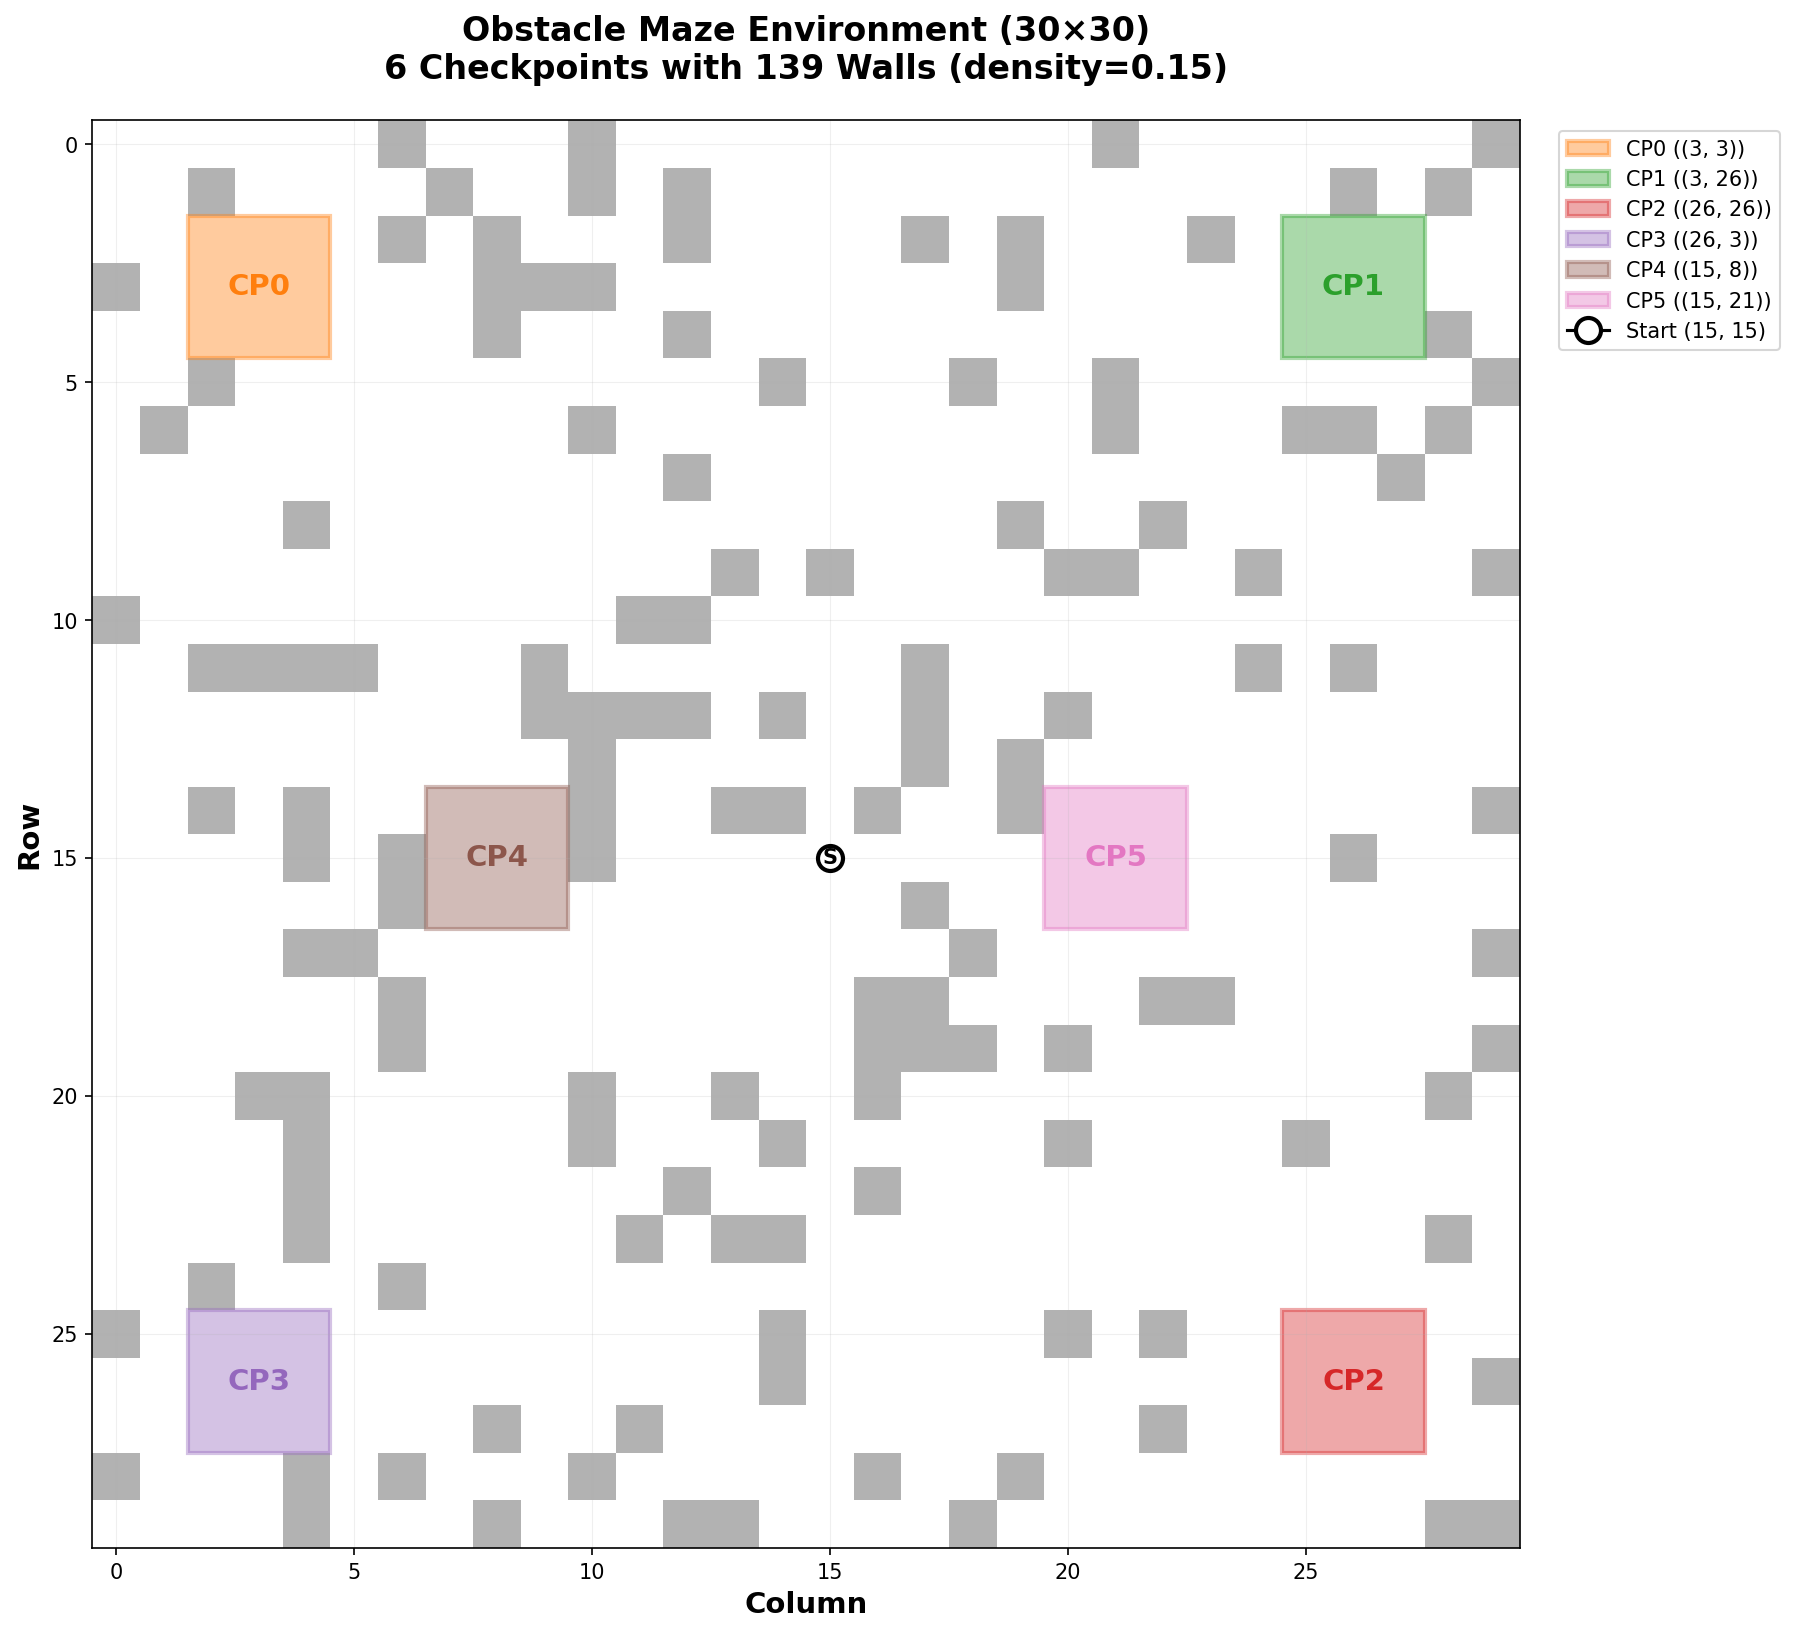
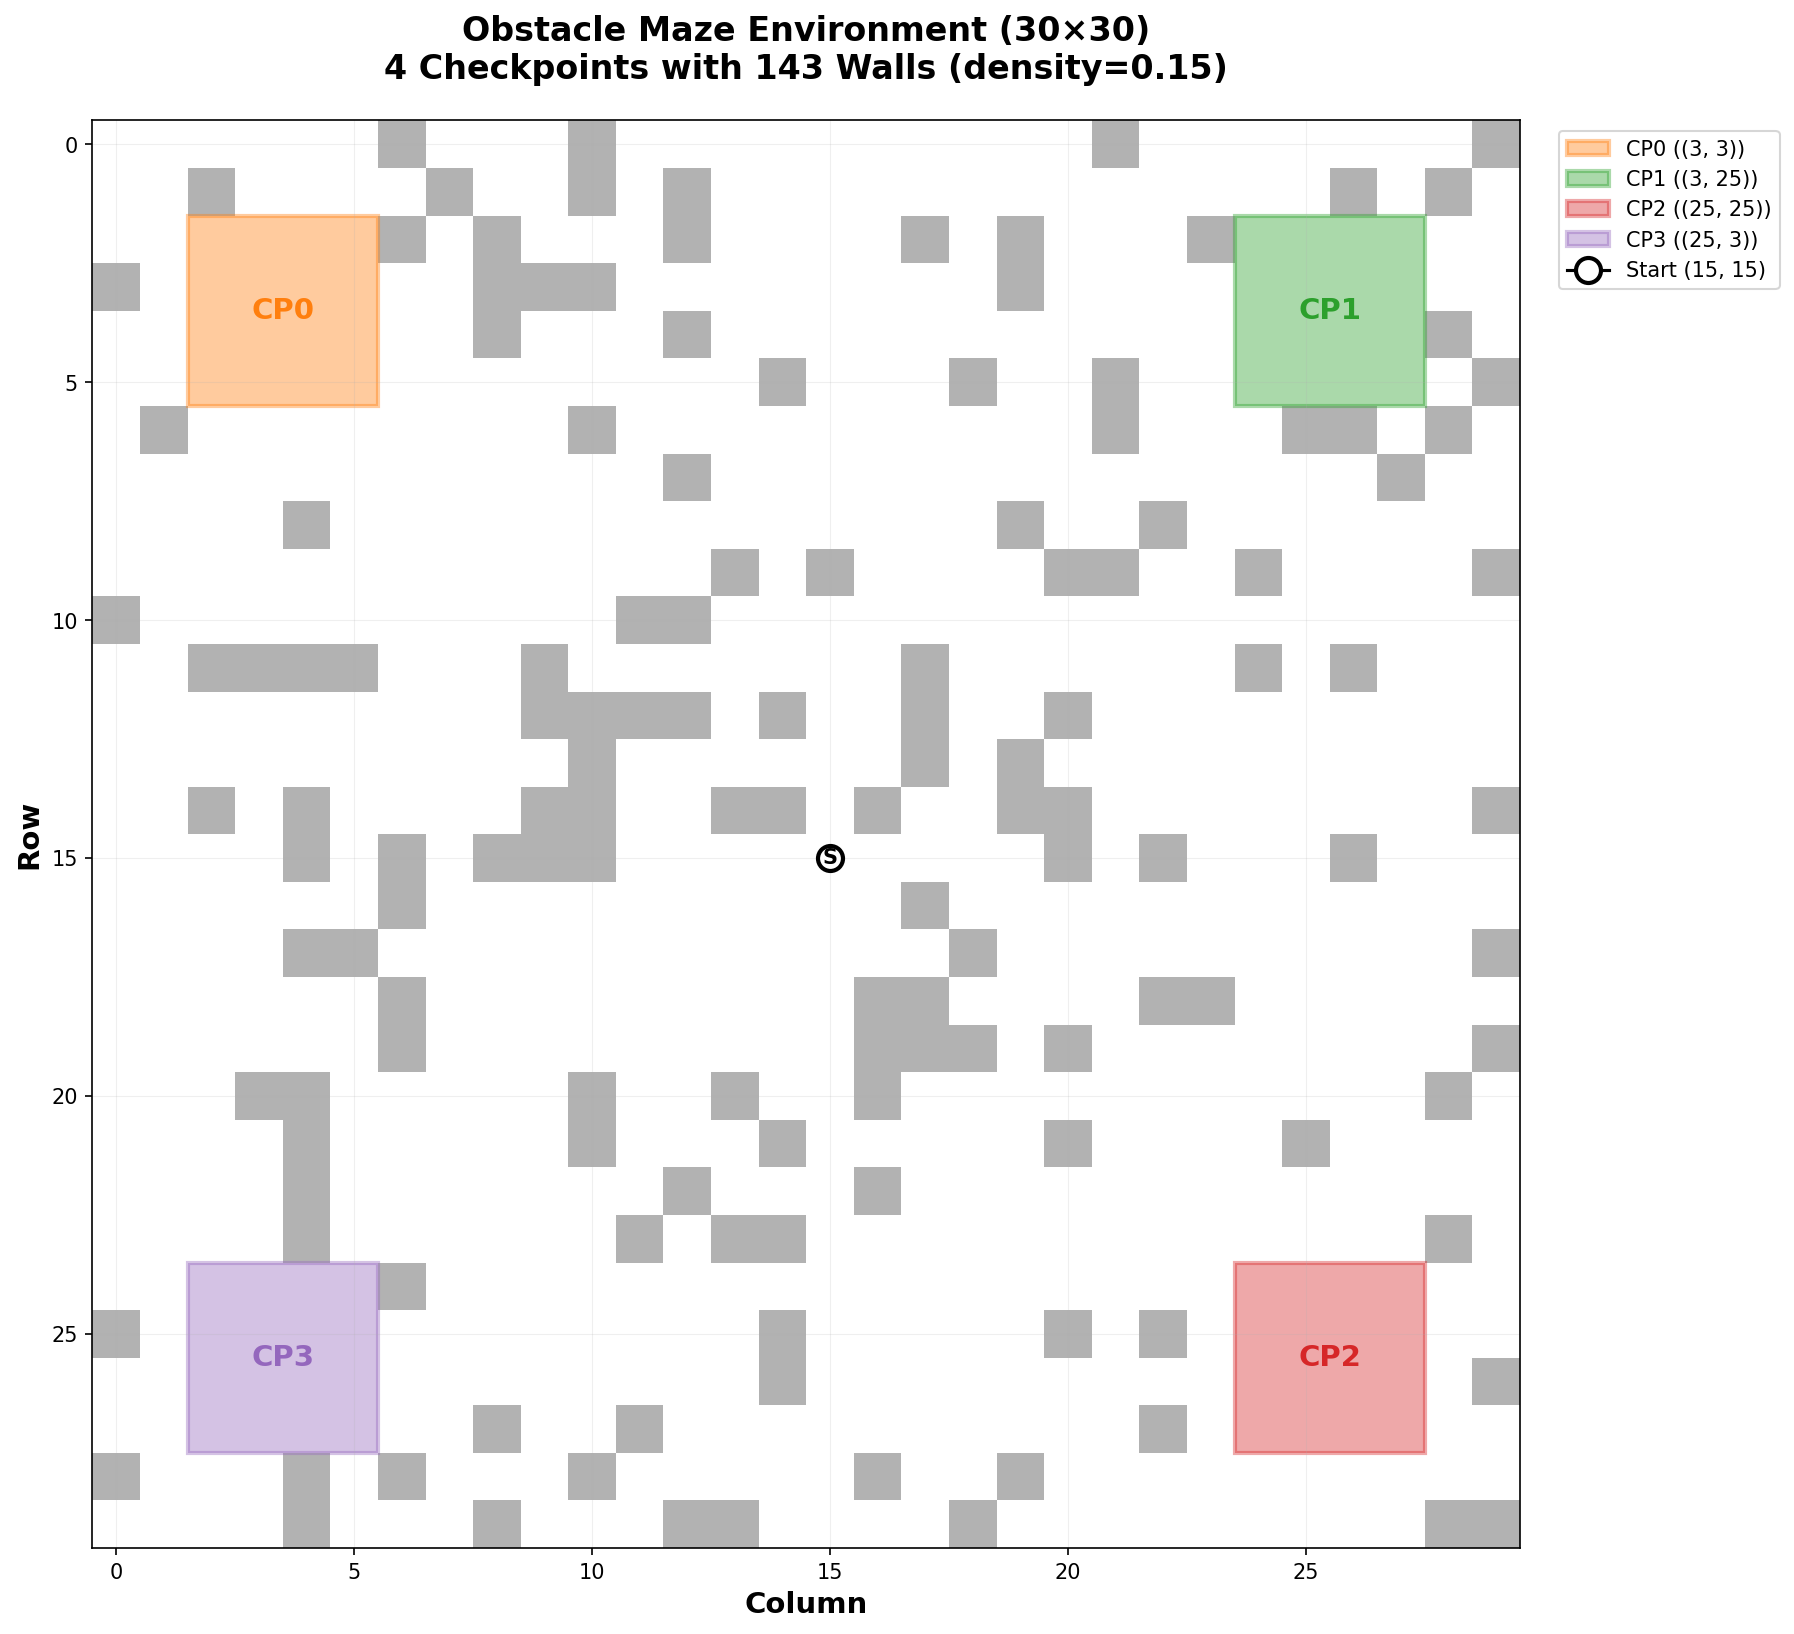
Reduce maze to 4 checkpoints (24 workflows) for better trainability and comparison with other envs; increase checkpoint size to 4x4

diff --git a/workflow_search_gpucb_maze.py b/workflow_search_gpucb_maze.py
@@ -1,7 +1,7 @@
 """
-Workflow Search with GP-UCB on ObstacleMazeEnv (6 checkpoints with obstacles).
+Workflow Search with GP-UCB on ObstacleMazeEnv (4 checkpoints with obstacles).
 
-Extension to obstacle maze with 6 checkpoints (720 possible orderings):
+Extension to obstacle maze with 4 checkpoints (24 possible orderings):
 - Agent must navigate around walls to enter checkpoints in specified order
 - Uses adherence-progress rewards + potential shaping
 - All GP-UCB, continuation, and early-stop features
@@ -47,11 +47,11 @@ class AdherenceShapedMazeEnv(gym.Wrapper):
         self.visited_sequence: List[int] = []
         self._phi_s: float = 0.0
         self._prev_adherence: float = 0.0
-        # Observation: agent(2) + checkpoint_centers(12) + visited(6) + next_cp_onehot(6) + workflow_vec(6) = 32
+        # Observation: agent(2) + checkpoint_centers(8) + visited(4) + next_cp_onehot(4) + workflow_vec(4) = 22
         import numpy as _np
         self.observation_space = gym.spaces.Box(
-            low=_np.zeros(32, dtype=_np.float32),
-            high=_np.ones(32, dtype=_np.float32),
+            low=_np.zeros(22, dtype=_np.float32),
+            high=_np.ones(22, dtype=_np.float32),
             dtype=_np.float32,
         )
 
@@ -174,13 +174,13 @@ class AdherenceShapedMazeEnv(gym.Wrapper):
         centers_norm = _np.asarray(centers, dtype=_np.float32)
 
         # Visited flags
-        visited_flags = _np.zeros(6, dtype=_np.float32)
+        visited_flags = _np.zeros(4, dtype=_np.float32)
         for t in self.visited_sequence:
-            if 0 <= int(t) < 6:
+            if 0 <= int(t) < 4:
                 visited_flags[int(t)] = 1.0
 
         # Next-checkpoint one-hot
-        one_hot = _np.zeros(6, dtype=_np.float32)
+        one_hot = _np.zeros(4, dtype=_np.float32)
         next_idx = 0
         for i, t in enumerate(self.workflow):
             if t in self.visited_sequence:
@@ -191,13 +191,13 @@ class AdherenceShapedMazeEnv(gym.Wrapper):
             next_cp = self.workflow[-1]
         else:
             next_cp = self.workflow[next_idx]
-        if 0 <= int(next_cp) < 6:
+        if 0 <= int(next_cp) < 4:
             one_hot[int(next_cp)] = 1.0
 
         # Workflow encoding
-        wf_vec = _np.zeros(6, dtype=_np.float32)
+        wf_vec = _np.zeros(4, dtype=_np.float32)
         for i, t in enumerate(self.workflow):
-            wf_vec[t] = (i + 1) / 6.0
+            wf_vec[t] = (i + 1) / 4.0
 
         return _np.concatenate([agent_norm, centers_norm, visited_flags, one_hot, wf_vec], axis=0)
 
@@ -285,7 +285,7 @@ def main():
             'pid': int(pid),
             'run_dir': run_dir,
             'MAX_TOTAL_UPDATES': int(MAX_TOTAL_UPDATES),
-            'num_candidates': 720,
+            'num_candidates': 24,
         }, f, indent=2)
 
     device = torch.device('cuda' if torch.cuda.is_available() else 'cpu')
@@ -307,7 +307,7 @@ def main():
             rect = mpatches.Rectangle((c - 0.5, r - 0.5), 1, 1, linewidth=0, facecolor='gray', alpha=0.6)
             ax.add_patch(rect)
         # Draw checkpoints
-        cp_colors = ['#ff7f0e', '#2ca02c', '#d62728', '#9467bd', '#8c564b', '#e377c2']
+        cp_colors = ['#ff7f0e', '#2ca02c', '#d62728', '#9467bd']
         for idx, (r_min, r_max, c_min, c_max) in enumerate(ref_env.checkpoints):
             width = c_max - c_min + 1
             height = r_max - r_min + 1
@@ -334,13 +334,13 @@ def main():
     except Exception as e:
         print(f"Could not save maze visualization: {e}")
 
-    # Candidate workflows (6! = 720)
-    candidates: List[List[int]] = [list(p) for p in itertools.permutations([0, 1, 2, 3, 4, 5])]
+    # Candidate workflows (4! = 24)
+    candidates: List[List[int]] = [list(p) for p in itertools.permutations([0, 1, 2, 3])]
     candidate_embeddings = [
         build_workflow_embedding(
             w,
             kernel_type=args.kernel_type,
-            num_targets=6,
+            num_targets=4,
             rank_scale=args.rank_scale,
             pairwise_scale=args.pairwise_scale,
         ) for w in candidates
@@ -524,8 +524,8 @@ def main():
                     if vseq is not None:
                         self.env_vseq[i] = list(vseq)
                     if bool(dones[i]):
-                        # Canonical: positional match vs [0,1,2,3,4,5]
-                        ref = [0, 1, 2, 3, 4, 5]
+                        # Canonical: positional match vs [0,1,2,3]
+                        ref = [0, 1, 2, 3]
                         _, weight, _ = positional_match_metrics(self.env_vseq[i], ref)
                         canonical = float(weight) + float(self.step_penalty) * float(self.env_steps[i])
                         adh = float(info.get('adherence', 0.0))
@@ -675,12 +675,12 @@ def main():
     if len(observed_scores) > 0:
         best_idx = int(np.argmax(observed_scores))
         print("\n=== Obstacle Maze Workflow Search Completed ===")
-        print(f"Observed {len(observed_indices)} unique workflows (out of 720 total)")
+        print(f"Observed {len(observed_indices)} unique workflows (out of 24 total)")
         print(f"Best workflow: {candidates[observed_indices[best_idx]]} with score {observed_scores[best_idx]:.2f}")
         with open(os.path.join(run_dir, 'summary.json'), 'w') as f:
             json.dump({
                 'observed_count': int(len(observed_indices)),
-                'total_candidates': 720,
+                'total_candidates': 24,
                 'best_workflow': candidates[observed_indices[best_idx]],
                 'best_score': float(observed_scores[best_idx])
             }, f, indent=2)

diff --git a/core/obstacle_maze_env.py b/core/obstacle_maze_env.py
@@ -1,13 +1,11 @@
 """
-Obstacle Maze Environment - 6 checkpoint regions on 30x30 grid with random obstacles.
+Obstacle Maze Environment - 4 checkpoint regions on 30x30 grid with random obstacles.
 
-Checkpoints (each 3×3):
-- CP0: top-left (rows 2-4, cols 2-4)
-- CP1: top-right (rows 2-4, cols 25-27)
-- CP2: bottom-right (rows 25-27, cols 25-27)
-- CP3: bottom-left (rows 25-27, cols 2-4)
-- CP4: middle-left (rows 14-16, cols 7-9)
-- CP5: middle-right (rows 14-16, cols 20-22)
+Checkpoints (each 4×4):
+- CP0: top-left (rows 2-5, cols 2-5)
+- CP1: top-right (rows 2-5, cols 24-27)
+- CP2: bottom-right (rows 24-27, cols 24-27)
+- CP3: bottom-left (rows 24-27, cols 2-5)
 
 Agent starts at center (15, 15). Task: enter checkpoints in specified workflow order.
 Random walls are placed with controllable density; connectivity is verified.
@@ -22,9 +20,9 @@ from collections import deque
 
 class ObstacleMazeEnv(gym.Env):
     """
-    Environment with 6 checkpoint regions and random obstacles.
+    Environment with 4 checkpoint regions and random obstacles.
     Grid: 30×30. Start at center (15,15).
-    Default order: CP0 → CP1 → CP2 → CP3 → CP4 → CP5
+    Default order: CP0 → CP1 → CP2 → CP3
     """
 
     metadata = {"render.modes": ["human"]}
@@ -36,33 +34,29 @@ class ObstacleMazeEnv(gym.Env):
             np.random.seed(seed)
 
         self.grid_size = 30
-        self.num_checkpoints = 6
+        self.num_checkpoints = 4
         self.wall_density = float(wall_density)
 
         # Action and observation spaces
         self.action_space = spaces.Discrete(4)  # 0:up, 1:down, 2:left, 3:right
         self.observation_space = spaces.Box(low=0, high=self.grid_size - 1, shape=(2,), dtype=np.int32)
 
-        # Define 6 checkpoint regions (3×3 each): (r_min, r_max, c_min, c_max)
+        # Define 4 checkpoint regions (4×4 each): (r_min, r_max, c_min, c_max)
         self.checkpoints: List[Tuple[int, int, int, int]] = [
-            (2, 4, 2, 4),       # CP0: top-left
-            (2, 4, 25, 27),     # CP1: top-right
-            (25, 27, 25, 27),   # CP2: bottom-right
-            (25, 27, 2, 4),     # CP3: bottom-left
-            (14, 16, 7, 9),     # CP4: middle-left
-            (14, 16, 20, 22),   # CP5: middle-right
+            (2, 5, 2, 5),       # CP0: top-left
+            (2, 5, 24, 27),     # CP1: top-right
+            (24, 27, 24, 27),   # CP2: bottom-right
+            (24, 27, 2, 5),     # CP3: bottom-left
         ]
         # Checkpoint centers for potential computation
         self.checkpoint_centers: List[Tuple[int, int]] = [
             (3, 3),   # CP0
-            (3, 26),  # CP1
-            (26, 26), # CP2
-            (26, 3),  # CP3
-            (15, 8),  # CP4
-            (15, 21), # CP5
+            (3, 25),  # CP1
+            (25, 25), # CP2
+            (25, 3),  # CP3
         ]
         self.start_pos: Tuple[int, int] = (15, 15)
-        self.correct_order: List[int] = [0, 1, 2, 3, 4, 5]
+        self.correct_order: List[int] = [0, 1, 2, 3]
 
         # Reward config
         self.step_penalty: float = step_penalty
@@ -251,14 +245,14 @@ class ObstacleMazeEnv(gym.Env):
 
     def get_state_for_policy(self) -> np.ndarray:
         """State = [agent_r, agent_c] normalized + checkpoint centers normalized + visited flags."""
-        state = np.zeros(2 + self.num_checkpoints * 2 + self.num_checkpoints, dtype=np.float32)
+        state = np.zeros(2 + 4 * 2 + 4, dtype=np.float32)
         norm = float(self.grid_size - 1)
         state[0] = self.agent_pos[0] / norm
         state[1] = self.agent_pos[1] / norm
         for i, (r, c) in enumerate(self.checkpoint_centers):
             state[2 + i * 2] = r / norm
             state[2 + i * 2 + 1] = c / norm
-        for i in range(self.num_checkpoints):
-            state[2 + self.num_checkpoints * 2 + i] = 1.0 if i in self.visited_checkpoints else 0.0
+        for i in range(4):
+            state[2 + 8 + i] = 1.0 if i in self.visited_checkpoints else 0.0
         return state
 

diff --git a/visualize_maze_map.py b/visualize_maze_map.py
@@ -15,8 +15,8 @@ checkpoints = env.checkpoints
 checkpoint_centers = env.checkpoint_centers
 walls = env.walls
 
-checkpoint_names = [f'CP{i}' for i in range(6)]
-checkpoint_colors = ['#ff7f0e', '#2ca02c', '#d62728', '#9467bd', '#8c564b', '#e377c2']
+checkpoint_names = [f'CP{i}' for i in range(4)]
+checkpoint_colors = ['#ff7f0e', '#2ca02c', '#d62728', '#9467bd']
 
 # Create map figure
 fig, ax = plt.subplots(1, 1, figsize=(12, 12), dpi=120)
@@ -64,7 +64,7 @@ ax.text(sc, sr, 'S', fontsize=10, fontweight='bold', ha='center', va='center', z
 
 ax.set_xlabel('Column', fontsize=14, fontweight='bold')
 ax.set_ylabel('Row', fontsize=14, fontweight='bold')
-ax.set_title(f'Obstacle Maze Environment ({grid_size}×{grid_size})\n6 Checkpoints with {int(walls.sum())} Walls (density={env.wall_density:.2f})', 
+ax.set_title(f'Obstacle Maze Environment ({grid_size}×{grid_size})\n4 Checkpoints with {int(walls.sum())} Walls (density={env.wall_density:.2f})', 
              fontsize=16, fontweight='bold', pad=20)
 ax.legend(loc='upper left', bbox_to_anchor=(1.02, 1), fontsize=10, frameon=True)
 ax.set_xticks(range(0, grid_size, 5))
@@ -79,7 +79,7 @@ plt.close()
 # Create workflow example figure
 np.random.seed(42)
 env = ObstacleMazeEnv(wall_density=0.15)
-example_workflow = [0, 1, 2, 3, 4, 5]
+example_workflow = [0, 1, 2, 3]
 
 fig, ax = plt.subplots(1, 1, figsize=(12, 12), dpi=120)
 ax.set_xlim(-0.5, grid_size - 0.5)
@@ -140,7 +140,7 @@ ax.text(sc, sr, 'S', fontsize=10, fontweight='bold', ha='center', va='center', z
 
 ax.set_xlabel('Column', fontsize=14, fontweight='bold')
 ax.set_ylabel('Row', fontsize=14, fontweight='bold')
-ax.set_title('Example Workflow: [0, 1, 2, 3, 4, 5]\nMust navigate around walls to visit checkpoints in order', 
+ax.set_title('Example Workflow: [0, 1, 2, 3]\nMust navigate around walls to visit checkpoints in order', 
              fontsize=16, fontweight='bold', pad=20)
 ax.set_xticks(range(0, grid_size, 5))
 ax.set_yticks(range(0, grid_size, 5))

diff --git a/train_ppo_baseline_maze_mp.py b/train_ppo_baseline_maze_mp.py
@@ -1,6 +1,6 @@
 """
 Multiprocessing PPO baseline on ObstacleMazeEnv using env-only rewards.
-Trains to visit 6 checkpoints in canonical order [0,1,2,3,4,5].
+Trains to visit 4 checkpoints in canonical order [0,1,2,3].
 """
 
 import argparse
@@ -66,7 +66,7 @@ def worker_episode(worker_id: int, policy_state_dict, max_steps: int, wall_densi
     """Run one episode in a separate process."""
     try:
         torch.set_num_threads(1)
-        state_dim = 2 + 6 * 2 + 6  # agent(2) + checkpoint_centers(12) + visited_flags(6)
+        state_dim = 2 + 4 * 2 + 4  # agent(2) + checkpoint_centers(8) + visited_flags(4)
         policy = Policy(state_dim)
         policy.load_state_dict(policy_state_dict)
         policy.eval()
@@ -108,8 +108,8 @@ def worker_episode(worker_id: int, policy_state_dict, max_steps: int, wall_densi
                 break
 
         first_visits = calculate_first_visits(visited_sequence)
-        adherence = adherence_rate(first_visits, [0, 1, 2, 3, 4, 5])
-        success = (first_visits == [0, 1, 2, 3, 4, 5])
+        adherence = adherence_rate(first_visits, [0, 1, 2, 3])
+        success = (first_visits == [0, 1, 2, 3])
         traj["ep_return"] = float(ep_return)
         traj["visited_sequence"] = first_visits
         traj["adherence"] = float(adherence)
@@ -215,7 +215,7 @@ def main():
     with open(updates_csv, 'w') as f:
         f.write('update,mean_return,mean_adherence,success_rate,policy_loss,value_loss,entropy\n')
 
-    state_dim = 2 + 6 * 2 + 6
+    state_dim = 2 + 4 * 2 + 4
     policy = Policy(state_dim).to(device)
     optimizer = optim.Adam(policy.parameters(), lr=args.lr)
 
